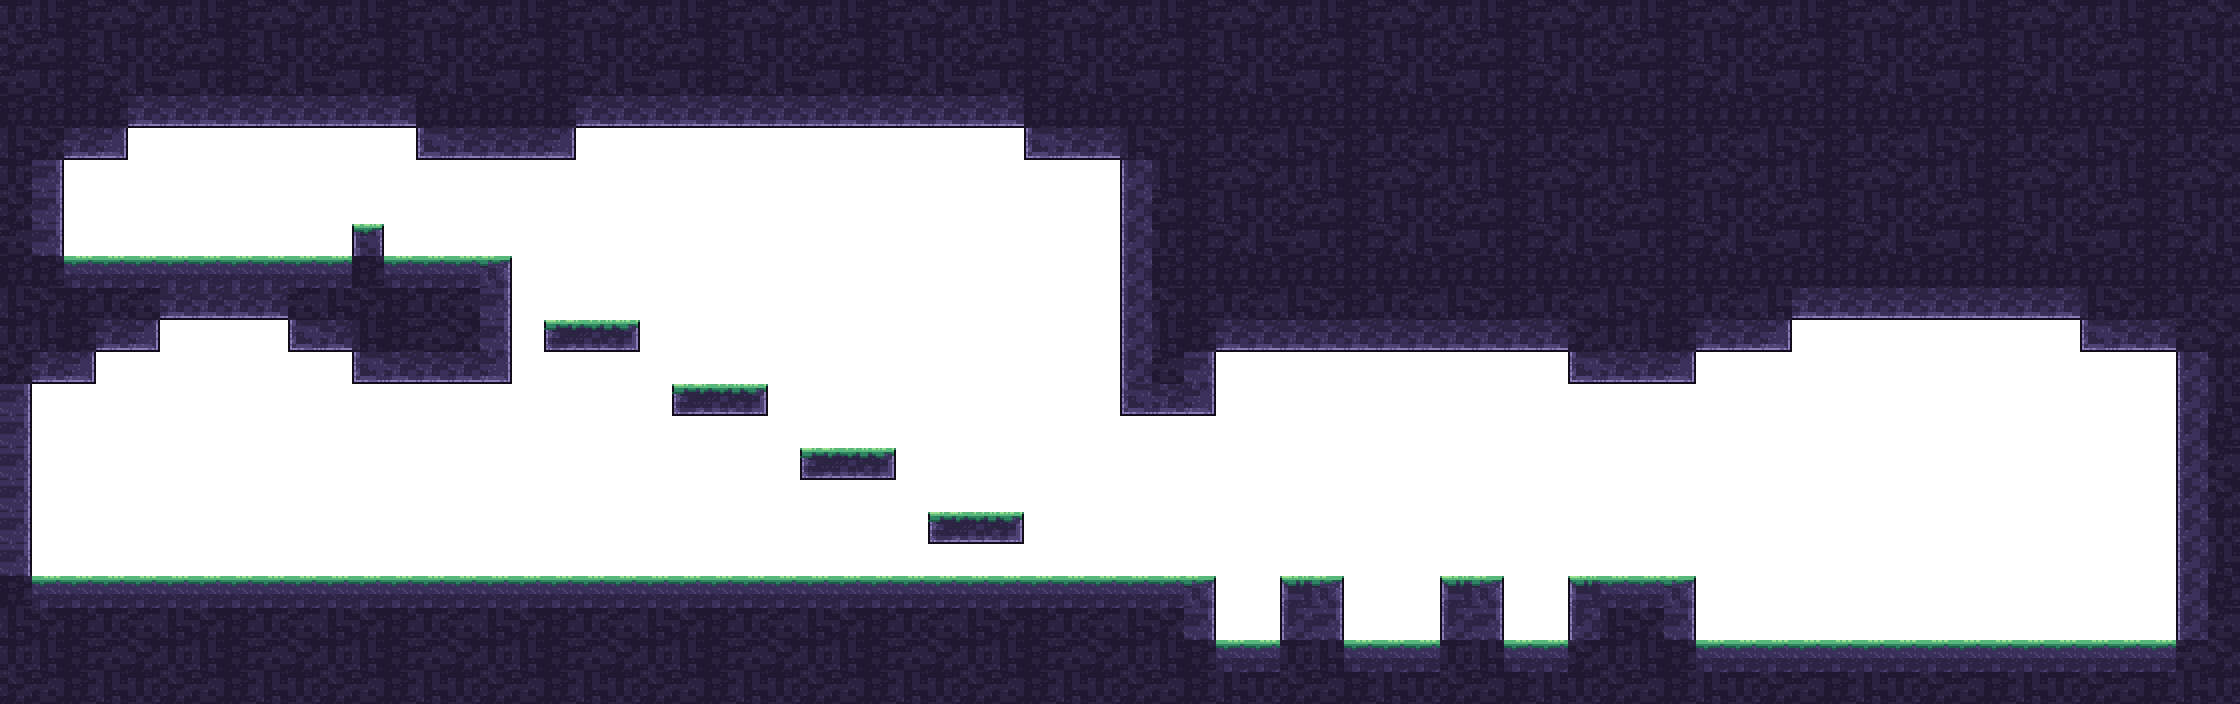
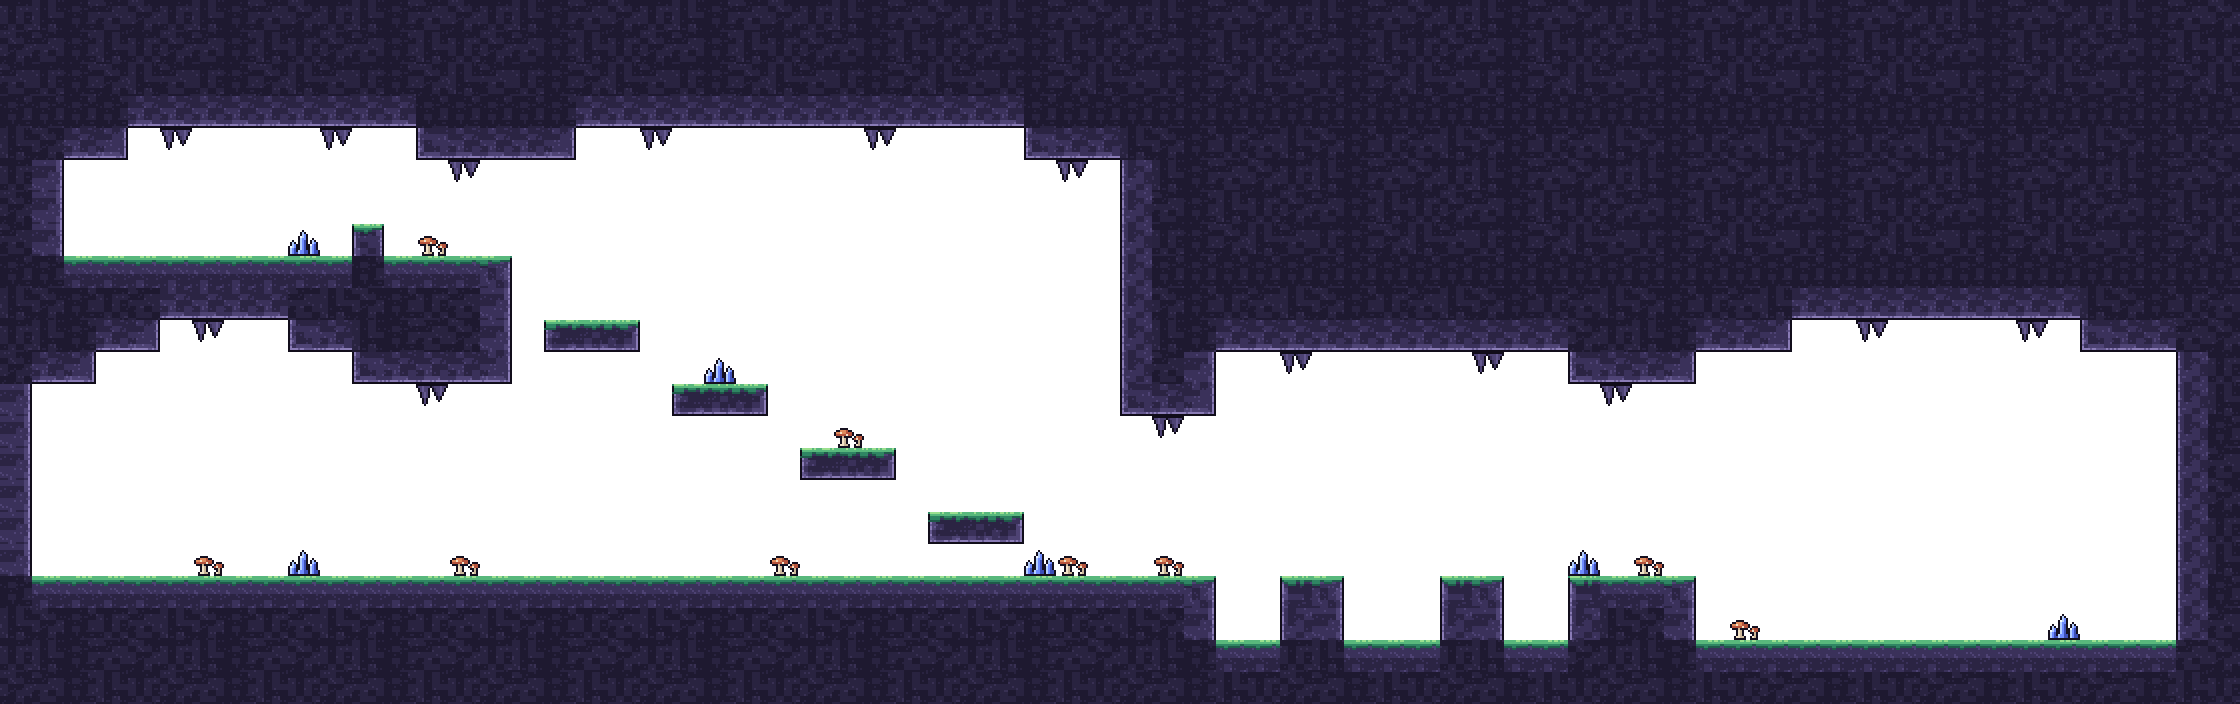
Move cave decoration into a Tiled object layer of non-solid tile objects
The generator now emits the decoration as tile objects with their own
tileset and bakes both layers into the level image. F5 draws the map
through the engine's Tilemap::render() for comparison.

diff --git a/tools/build_level.py b/tools/build_level.py
@@ -1,10 +1,19 @@
 #!/usr/bin/env python3
 """Turn assets/level/level.txt into a Tiled JSON map the engine can load.
 
-The engine's Tilemap treats every tile in every tile layer as solid and does
-not expose tile ids or object data, so the ASCII file stays the single source
-of truth: '#' cells become tiles here, and the game reads every other
-character (player start, spores, spikes, ...) from level.txt itself.
+The ASCII file is the single source of truth. This script writes:
+
+- a tile layer with the '#' cells. Every tile in a tile layer is solid for the
+  engine's Tilemap, and this is what the player collides with;
+- an object layer of tile objects for the decoration ('v' stalactite,
+  'm' mushroom, 'c' crystal). The engine draws tile objects and gives them no
+  collision, which is its way of having non-solid tiles;
+- assets/gfx/decor.png, the tileset image for those objects;
+- assets/gfx/cave.png, both layers composed into one picture.
+
+The game still reads level.txt itself for things it has to know about (player
+start, spores, spikes, shrine, slime, door, and where the crystals glow),
+because the Tilemap does not expose tile ids or objects.
 
 Tile choice is a 4-bit "which sides are open" mask (up=1, right=2, down=4,
 left=8) that indexes into assets/gfx/tiles.png (see make_art.py).
@@ -19,6 +28,10 @@ LEVEL = ROOT / "assets" / "level"
 TILE = 32
 COLUMNS, ROWS = 8, 3          # layout of tiles.png
 INTERIOR_VARIANTS = [0, 16, 17, 18, 19]
+
+# Decoration tileset: one row, in this order. firstgid follows the cave tiles.
+DECOR = {"v": "stalactite", "m": "mushroom", "c": "crystal"}
+DECOR_FIRSTGID = COLUMNS * ROWS + 1
 
 
 def main():
@@ -49,6 +62,33 @@ def main():
                 index = INTERIOR_VARIANTS[(c * 7 + r * 13 + (c * r) % 5) % len(INTERIOR_VARIANTS)]
             data.append(index + 1)  # firstgid is 1
 
+    # Decoration as tile objects. In Tiled's format a tile object's (x, y) is
+    # its bottom-left corner with y pointing down.
+    gfx = ROOT / "assets" / "gfx"
+    decor_names = list(DECOR.values())
+    decor_image = Image.new("RGBA", (len(decor_names) * TILE, TILE), (0, 0, 0, 0))
+    for i, name in enumerate(decor_names):
+        decor_image.paste(Image.open(gfx / f"{name}.png").convert("RGBA"), (i * TILE, 0))
+    decor_image.save(gfx / "decor.png")
+
+    objects = []
+    for r in range(height):
+        for c in range(width):
+            kind = rows[r][c]
+            if kind in DECOR:
+                objects.append({
+                    "id": len(objects) + 1,
+                    "gid": DECOR_FIRSTGID + list(DECOR).index(kind),
+                    "name": DECOR[kind],
+                    "type": "",
+                    "rotation": 0,
+                    "visible": True,
+                    "width": TILE,
+                    "height": TILE,
+                    "x": c * TILE,
+                    "y": (r + 1) * TILE,
+                })
+
     tmj = {
         "width": width,
         "height": height,
@@ -62,6 +102,17 @@ def main():
         "layers": [
             {
                 "id": 1,
+                "name": "decoration",
+                "type": "objectgroup",
+                "draworder": "topdown",
+                "objects": objects,
+                "opacity": 1,
+                "visible": True,
+                "x": 0,
+                "y": 0,
+            },
+            {
+                "id": 2,
                 "name": "solid",
                 "type": "tilelayer",
                 "width": width,
@@ -71,9 +122,26 @@ def main():
                 "opacity": 1,
                 "visible": True,
                 "data": data,
-            }
+            },
         ],
-        "tilesets": [{"firstgid": 1, "source": "tiles.tsj"}],
+        "tilesets": [
+            {"firstgid": 1, "source": "tiles.tsj"},
+            {"firstgid": DECOR_FIRSTGID, "source": "decor.tsj"},
+        ],
+    }
+    decor_tsj = {
+        "type": "tileset",
+        "version": "1.10",
+        "name": "decor",
+        "image": "../gfx/decor.png",
+        "imagewidth": len(decor_names) * TILE,
+        "imageheight": TILE,
+        "tilewidth": TILE,
+        "tileheight": TILE,
+        "columns": len(decor_names),
+        "tilecount": len(decor_names),
+        "margin": 0,
+        "spacing": 0,
     }
     tsj = {
         "type": "tileset",
@@ -89,23 +157,31 @@ def main():
         "margin": 0,
         "spacing": 0,
     }
-    # The engine's Tilemap::render() draws every tile of the map each frame,
-    # one draw call per tile and with no culling. Bake the same picture into a
-    # single image the game can draw as one sprite instead; the Tilemap is
-    # still what the player collides with.
-    atlas = Image.open(ROOT / "assets" / "gfx" / "tiles.png").convert("RGBA")
+    # The engine's Tilemap::render() draws every tile and object of the map each
+    # frame, one draw call each and with no culling. Bake the same picture into
+    # a single image the game can draw as one sprite instead (objects first,
+    # then tiles, which is the order the engine draws them in). The Tilemap is
+    # still what the player collides with, and F5 in the game switches to the
+    # engine's own rendering for comparison.
+    atlas = Image.open(gfx / "tiles.png").convert("RGBA")
     baked = Image.new("RGBA", (width * TILE, height * TILE), (0, 0, 0, 0))
+    for obj in objects:
+        index = obj["gid"] - DECOR_FIRSTGID
+        tile = decor_image.crop((index * TILE, 0, (index + 1) * TILE, TILE))
+        baked.alpha_composite(tile, (obj["x"], obj["y"] - obj["height"]))
     for i, gid in enumerate(data):
         if gid == 0:
             continue
         index = gid - 1
         sx, sy = (index % COLUMNS) * TILE, (index // COLUMNS) * TILE
-        baked.paste(atlas.crop((sx, sy, sx + TILE, sy + TILE)), ((i % width) * TILE, (i // width) * TILE))
-    baked.save(ROOT / "assets" / "gfx" / "cave.png")
+        baked.alpha_composite(atlas.crop((sx, sy, sx + TILE, sy + TILE)), ((i % width) * TILE, (i // width) * TILE))
+    baked.save(gfx / "cave.png")
 
     (LEVEL / "cave.tmj").write_text(json.dumps(tmj))
     (LEVEL / "tiles.tsj").write_text(json.dumps(tsj, indent=1))
-    print(f"wrote cave.tmj ({width}x{height}), tiles.tsj and gfx/cave.png")
+    (LEVEL / "decor.tsj").write_text(json.dumps(decor_tsj, indent=1))
+    print(f"wrote cave.tmj ({width}x{height}, {len(objects)} decoration objects), "
+          "tiles.tsj, decor.tsj, gfx/decor.png and gfx/cave.png")
 
 
 if __name__ == "__main__":

diff --git a/src/Game.cpp b/src/Game.cpp
@@ -1012,17 +1012,21 @@ void Game::renderWorld()
             { u0, v0, u0 + g.viewW() / SIZE, v0 + g.viewH() / SIZE });
     }
 
-    for (const Level::Decor& d : m_Level.decor)
+    // The cave: solid tiles plus the decoration object layer of the Tiled map.
+    // Normally this is the picture tools/build_level.py baked from that map,
+    // drawn as one sprite. m_Tilemap.render() shows the same thing (F5), but
+    // it issues a draw call for every tile and object of the whole map every
+    // frame, and each engine draw call also asks the window system for the
+    // window size.
+    if (m_EngineTilemapRender)
     {
-        const char* name = d.kind == 'v' ? "stalactite" : d.kind == 'm' ? "mushroom" : "crystal";
-        g.draw(g.tex(name), Level::cellTopLeft(d.cell), { TILE, TILE });
+        m_Tilemap.render(g.renderer(), g.window());
+        g.countExternalDraws(static_cast<int>(m_Tilemap.getRects().size() + m_Level.decor.size()));
     }
-
-    // The solid tiles, pre-baked into one image by tools/build_level.py.
-    // m_Tilemap.render() would show the same thing, but it issues one draw
-    // call per tile for the whole map every frame (861 here), and each engine
-    // draw call also asks the window system for the window size.
-    g.draw(g.tex("cave"), { 0.0f, 0.0f }, { m_Level.pixelWidth(), m_Level.pixelHeight() });
+    else
+    {
+        g.draw(g.tex("cave"), { 0.0f, 0.0f }, { m_Level.pixelWidth(), m_Level.pixelHeight() });
+    }
 
     for (const Level::Cell& cell : m_Level.spikes)
         g.draw(g.tex("spikes"), Level::cellTopLeft(cell), { TILE, TILE });

diff --git a/src/main.cpp b/src/main.cpp
@@ -22,6 +22,7 @@ using Key = glgame2d::Keyboard;
 //   SPORE_SPEED=<n>       run the simulation n times faster
 //   SPORE_TRACE=1         log the player position a few times a second
 //   SPORE_MUTE=1          do not open an audio device (same as --mute)
+//   SPORE_ENGINE_TILEMAP=1  start with the map drawn by Tilemap::render() (F5)
 // Steps run in order; each waits for its condition, then applies its action.
 // Conditions: "12.5" (simulation time), "+0.3" (seconds after the previous
 // step), "x>100" / "x<100" / "y>-500" / "y<-500" (player position),
@@ -171,6 +172,8 @@ int main(int argc, char** argv)
     Audio audio{ !mute };
     Game game{ gfx, audio, "save.txt" };
     game.setTrace(std::getenv("SPORE_TRACE") != nullptr);
+    if (std::getenv("SPORE_ENGINE_TILEMAP"))
+        game.toggleEngineTilemapRender();
 
     glgame2d::Input input;
     Controls controls;
@@ -189,6 +192,8 @@ int main(int argc, char** argv)
             game.toggleDebug();
         if (input.isJustPressed(Key::KEY_F4))
             game.toggleCoarseLight();
+        if (input.isJustPressed(Key::KEY_F5))
+            game.toggleEngineTilemapRender();
 
         while (accumulator >= Game::STEP && running)
         {

diff --git a/src/Level.hpp b/src/Level.hpp
@@ -6,9 +6,10 @@
 #include <glm/glm.hpp>
 
 // The level is authored as ASCII (assets/level/level.txt). tools/build_level.py
-// turns the '#' cells into the Tiled map the engine collides against; this
-// class reads everything else, because the engine's Tilemap does not expose
-// tile ids, objects or properties.
+// turns it into the Tiled map the engine loads: '#' cells become the solid
+// tile layer and decoration becomes non-solid tile objects. This class reads
+// the same file for everything the game has to know the position of, because
+// the engine's Tilemap does not expose tile ids, objects or properties.
 //
 // World space follows the engine: +y is up, a sprite's position is its
 // top-left corner, and the top-left of cell (0, 0) is the origin. The whole

diff --git a/src/Game.hpp b/src/Game.hpp
@@ -69,6 +69,8 @@ public:
     void toggleDebug() { m_Debug = !m_Debug; }
     void toggleCoarseLight() { m_CoarseLight = !m_CoarseLight; m_LightManual = true; }
 
+    void toggleEngineTilemapRender() { m_EngineTilemapRender = !m_EngineTilemapRender; }
+
     // read-only state for the scripted play-test in main.cpp
     glm::vec2 playerPosition() const { return m_Player.topLeft(); }
     bool playerGrounded() const { return m_Grounded; }
@@ -167,6 +169,7 @@ private:
     bool m_Trace = false;
     bool m_CoarseLight = false;
     bool m_LightManual = false;
+    bool m_EngineTilemapRender = false;     // F5: draw the map through Tilemap::render()
     float m_SlowTime = 0.0f;
     float m_FrameTime = 0.0f;
 

diff --git a/FRICTION.md b/FRICTION.md
@@ -41,10 +41,10 @@ The first five are the ones that shaped the game the most.
 ### 4. The tilemap can be drawn and collided with, but not queried
 
 - **Wanted:** Author the level in one place: solid ground, background decoration that does not collide, spikes, and markers for the player start, spores, shrine, slime and door.
-- **Did instead:** The level is an ASCII file (`assets/level/level.txt`). `tools/build_level.py` turns the `#` cells into a Tiled JSON map with a single tile layer, which the engine loads for collision. The game parses the same ASCII file itself for everything else and draws decoration, spikes and props as its own sprites.
+- **Did instead:** The level is an ASCII file (`assets/level/level.txt`). `tools/build_level.py` turns it into a Tiled JSON map: the `#` cells become a solid tile layer and the decoration (stalactites, mushrooms, crystals) becomes an object layer of non-solid tile objects. The game parses the same ASCII file itself for everything it needs a position for (spawn, spores, spikes, shrine, slime, door, crystal glows) and draws spikes and props as its own sprites.
 - **Detail:** Non-solid tiles *are* supported, through object layers: a tile object (an object with a `gid`) is drawn by `Tilemap::render()` and gets no collision rectangle, which is how the engine's own example map does it. I missed this at first and wrote here that every tile is solid; that was wrong and is corrected. Checked afterwards with a test map: three tile objects in open air were rendered, the collision rectangle count was unchanged (865 with and without the layer), and a dropped `Entity` fell through them to the floor. What is true: every tile in a *tile layer* is solid, in every tile layer, so non-solid tiles cannot be painted on a grid layer and must be placed as objects.
   The part that still forced the ASCII file: there is no "what tile is at (x, y)", and no access to tile ids, layer names, Tiled custom properties or the objects themselves, so the game cannot read where a spawn point, a spore or a spike is from the map. The loader also reads `object["gid"]` unconditionally, so point or rectangle objects (the usual way to place markers) are not supported *(read, not hit)*. A failed load only logs; there is no way to ask the Tilemap whether it loaded.
-  Decoration could have lived in an object layer. It does not, because the game does not call `Tilemap::render()` at all (entries 1 and 9), so anything in the map would not be drawn.
+  Decoration now lives in an object layer of the map. The game still does not call `Tilemap::render()` in normal play (entries 1 and 9); it draws a picture baked from the same two layers. `F5` switches to the engine's rendering: a paused frame looked the same both ways (29 objects and all tiles in place; pixel differences of at most 9/255, confined to the flickering lantern light), at 1,066 sprites and 30 ms instead of 336 sprites and 13.5 ms.
 - **Area:** collision / assets
 - **Kind:** missing feature (map queries, markers). Non-solid tiles: not a gap, only undocumented.
 

diff --git a/README.md b/README.md
@@ -67,7 +67,7 @@ with `-Wall -Wextra`, and the scripted playthrough passed on the result.
 | `Enter` | confirm on title, win and lose screens |
 | `N` | new game on the title screen (erases the save) |
 | `Esc` | pause; quit from the title screen |
-| `F3` / `F4` | debug overlay / coarse lighting |
+| `F3` / `F4` / `F5` | debug overlay / coarse lighting / draw the map with the engine's `Tilemap::render()` |
 
 ## How it plays
 
@@ -100,7 +100,7 @@ with `-Wall -Wextra`, and the scripted playthrough passed on the result.
 | `assets/` | generated art, sounds, the level, and the font |
 | `tools/make_art.py` | generates every image in `assets/gfx` |
 | `tools/make_audio.py` | synthesises every sound in `assets/sfx` |
-| `tools/build_level.py` | turns `assets/level/level.txt` into the Tiled map and the baked level image |
+| `tools/build_level.py` | turns `assets/level/level.txt` into the Tiled map (solid tile layer + decoration object layer) and the baked level image |
 | `tests/` | a scripted full playthrough |
 | `SCOPE.md` | what was planned before coding |
 | `FRICTION.md` | where the engine got in the way |
@@ -108,7 +108,7 @@ with `-Wall -Wextra`, and the scripted playthrough passed on the result.
 
 The tools need Python 3 with Pillow and are only needed to regenerate assets;
 their output is committed. After editing `level.txt`, run
-`python3 tools/build_level.py`.
+`python3 tools/build_level.py` (and run `make_art.py` first if the art changed).
 
 ## Testing
 
@@ -128,11 +128,11 @@ Recorded here as the task asked. Details and measurements are in `FRICTION.md`.
 1. **The level is ASCII, not a Tiled project.** The engine's tilemap exposes
    no tile, object or property data, so the game cannot read spawn points,
    spores or spikes from a map. `level.txt` is the source of truth and a
-   script generates the Tiled JSON the engine collides against. (Non-solid
-   tiles do work in the engine, as tile objects in an object layer; the game
-   does not use them because it does not draw through `Tilemap::render()`.)
-2. **The tile layer is drawn as one baked image**, not with `Tilemap::render()`,
-   which draws every tile of the map (about 860) every frame at a real cost per sprite.
+   script generates the Tiled JSON from it: a solid tile layer, and an object
+   layer of non-solid tile objects for the decoration.
+2. **The map is drawn as one baked image**, not with `Tilemap::render()`,
+   which draws every tile and object of the map (about 890) every frame at a
+   real cost per sprite. `F5` switches to the engine's rendering to compare.
 3. **Darkness is a grid of 16 px squares in 8 alpha steps** rather than smooth
    light, because sprites have no tint, alpha or blend mode. Crystals and the
    slime glow but do not light their surroundings, to save sprites.

diff --git a/ASSETS.md b/ASSETS.md
@@ -18,11 +18,12 @@ this repository. No third-party art or audio was used, traced or sampled.
 
 | Files | Generator | Notes |
 | --- | --- | --- |
-| `assets/gfx/*.png` except `cave.png` | `tools/make_art.py` | Pixel art defined as ASCII grids and small procedural routines (tiles, slime, door, glows), upscaled 2×. |
-| `assets/gfx/cave.png` | `tools/build_level.py` | The tile layer of the level, composed from `tiles.png`. |
+| `assets/gfx/*.png` except `cave.png` and `decor.png` | `tools/make_art.py` | Pixel art defined as ASCII grids and small procedural routines (tiles, slime, door, glows), upscaled 2×. |
+| `assets/gfx/decor.png` | `tools/build_level.py` | Tileset for the decoration objects, composed from `stalactite.png`, `mushroom.png` and `crystal.png`. |
+| `assets/gfx/cave.png` | `tools/build_level.py` | Both layers of the level map composed into one picture. |
 | `assets/sfx/*.wav` | `tools/make_audio.py` | Synthesised with sine, triangle, square and filtered-noise generators (Python standard library only). |
 | `assets/level/level.txt` | hand-written | The level. |
-| `assets/level/cave.tmj`, `assets/level/tiles.tsj` | `tools/build_level.py` | Tiled-format JSON generated from `level.txt`. |
+| `assets/level/cave.tmj`, `assets/level/tiles.tsj`, `assets/level/decor.tsj` | `tools/build_level.py` | Tiled-format JSON generated from `level.txt`. |
 
 These generated assets carry no third-party rights. The repository owner may
 license them as they see fit.

diff --git a/SCOPE.md b/SCOPE.md
@@ -77,7 +77,9 @@ Recorded as they happened. Reasons and measurements are in FRICTION.md.
 - Level authored as ASCII plus a generator script instead of in Tiled
   (engine tilemap: no tile, object or property access, so markers cannot
   be read from a map; non-solid tiles are possible as tile objects).
-- Tile layer drawn as one baked image instead of `Tilemap::render()`
+- Decoration moved into a Tiled object layer of non-solid tile objects
+  (after the engine's example showed that this works).
+- Map drawn as one baked image instead of `Tilemap::render()`
   (one draw call per tile, no culling, costly per sprite on X11).
 - Lighting became a grid of 16 px squares in 8 alpha steps
   (no tint, alpha, blend modes or render targets).
